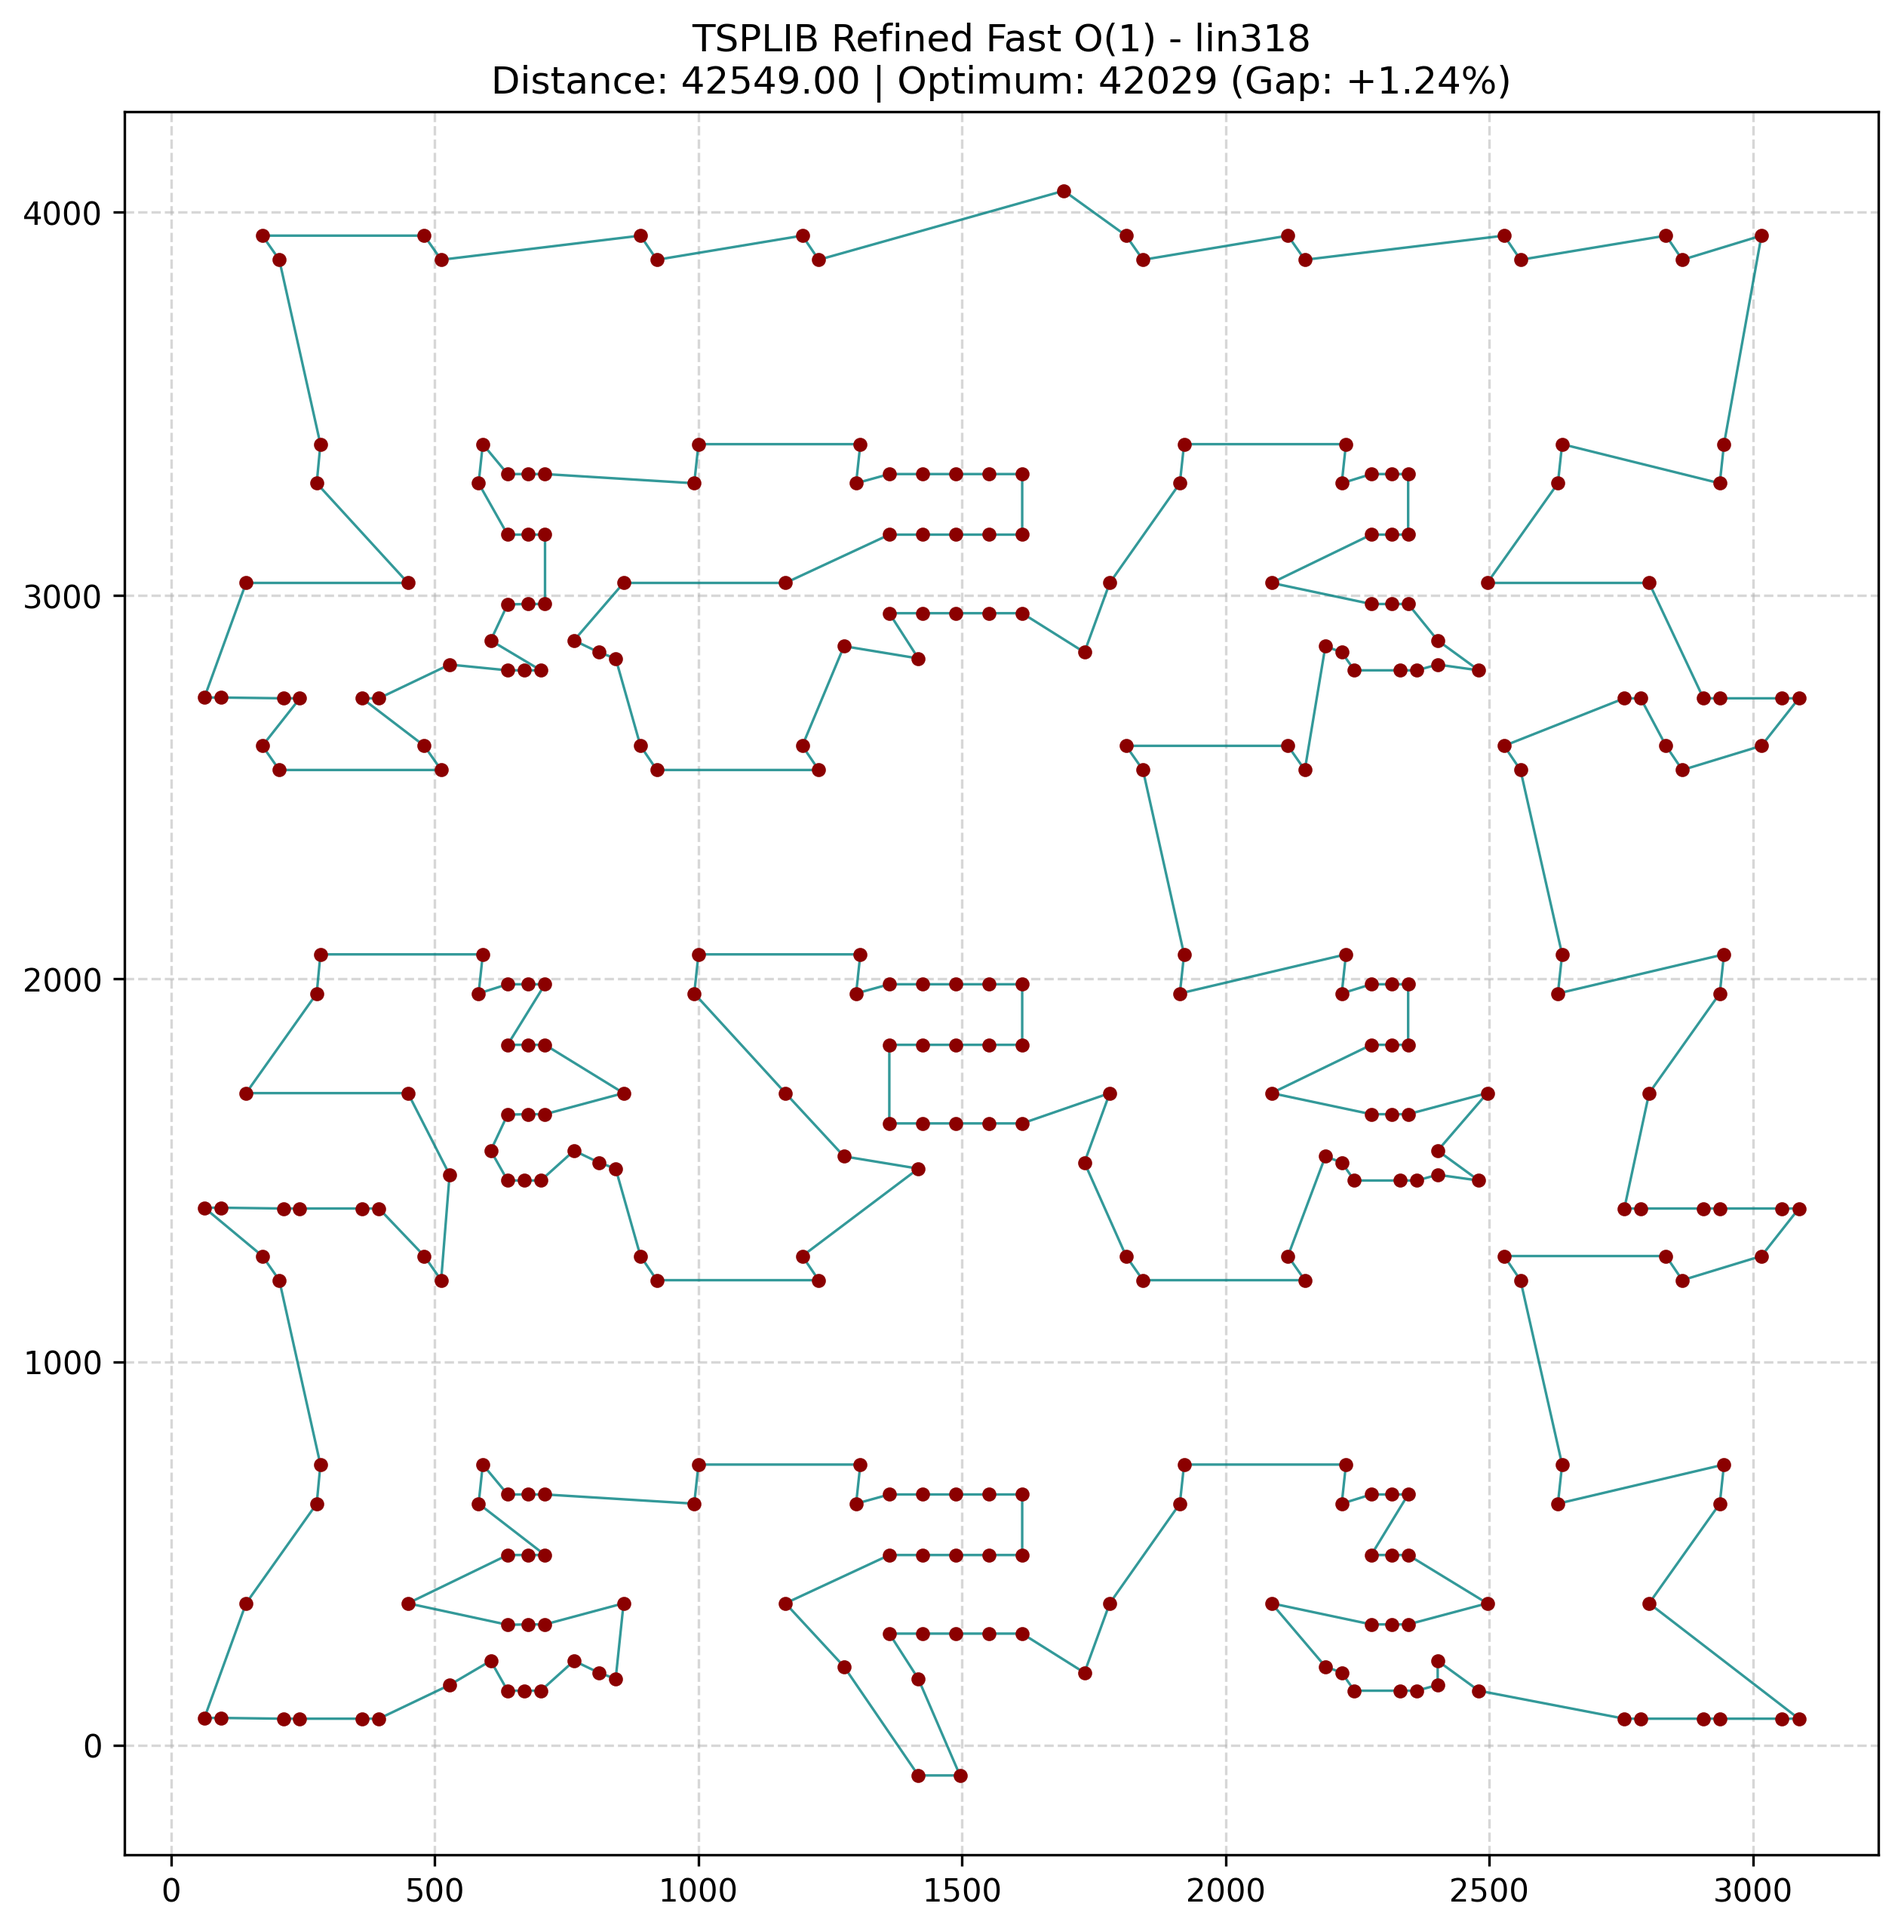
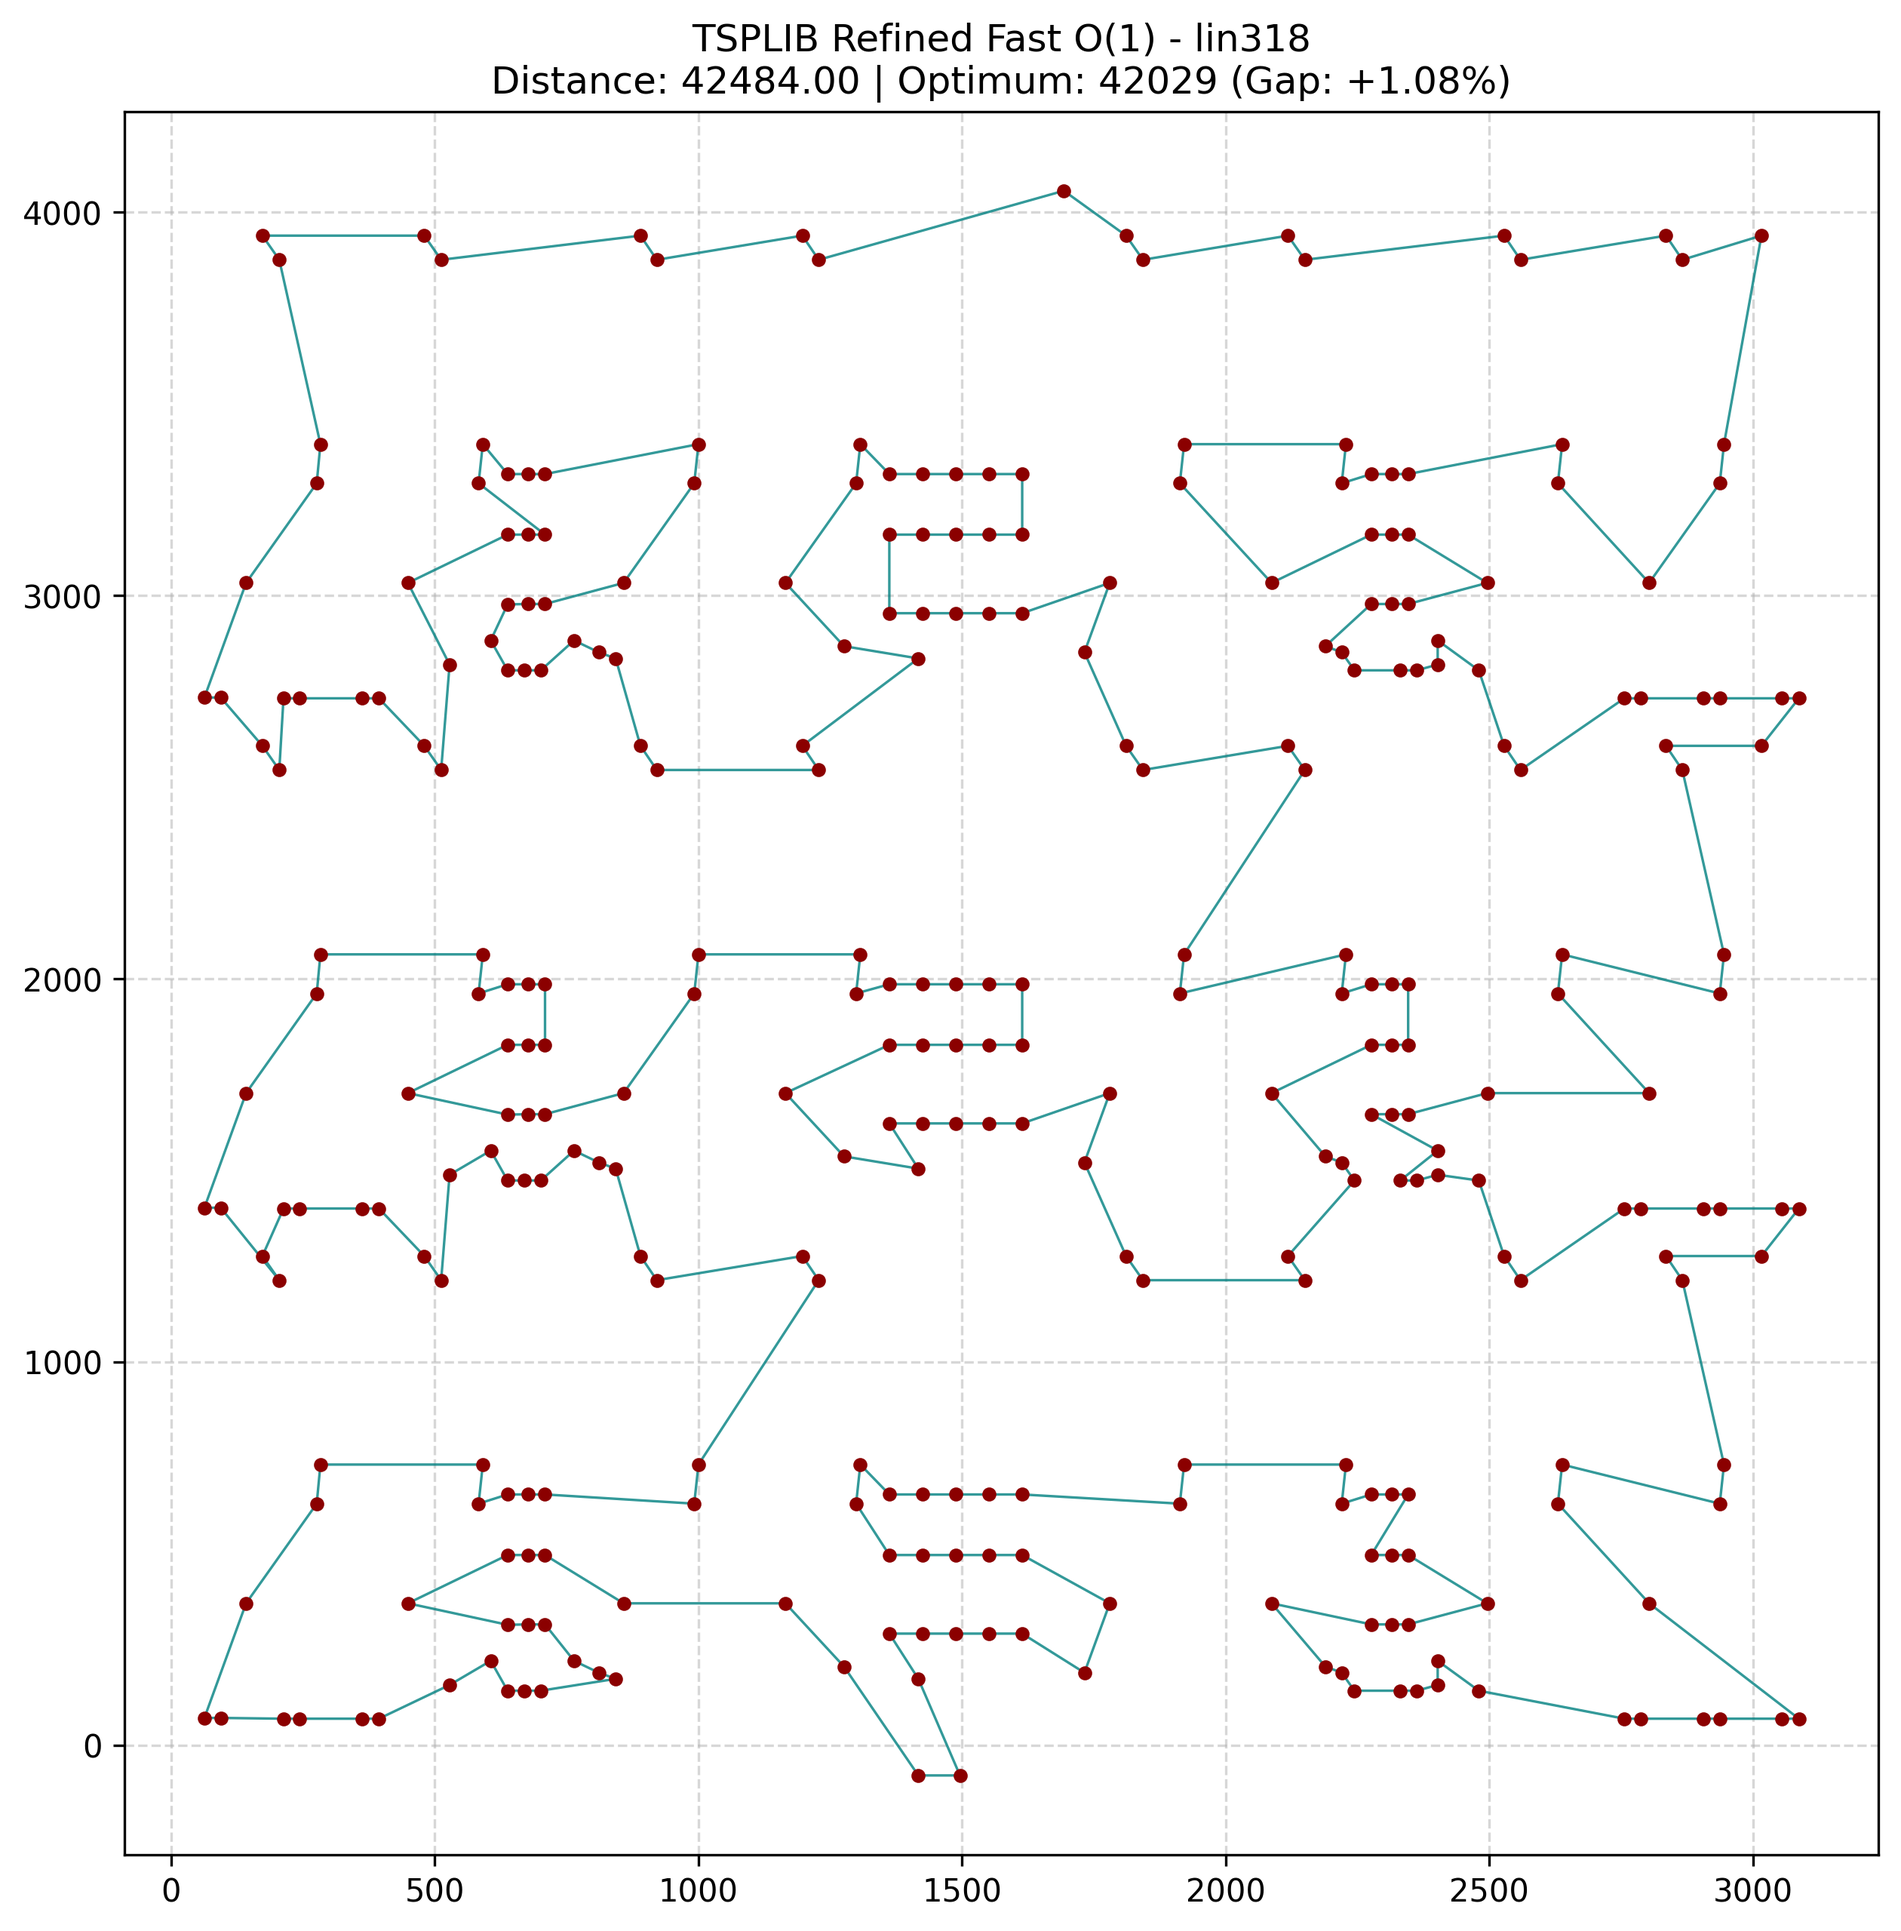
1.08%

diff --git a/grm_path_solver.py b/grm_path_solver.py
@@ -319,5 +319,5 @@ def plot_solution(coordinates, route, instance_name, distance, optimum, gap):
 
 if __name__ == "__main__":
     grm_delta_solver(
-        "lin318", num_iterations=3000000, initial_alpha=0.01, k_neighbors=45, seed=42
+        "lin318", num_iterations=3000000, initial_alpha=0.05, k_neighbors=45, seed=123
     )

diff --git a/README.md b/README.md
@@ -249,9 +249,9 @@ The current high-performance pipeline features:
 | Evaluation Complexity                     |             $O(1)$ Delta |
 | Initial Temperature                       |                    400.0 |
 | Cooling Rate                              |                 0.999997 |
-| Initial Structural Coefficient ($\alpha$) |                     0.01 |
+| Initial Structural Coefficient ($\alpha$) |                     0.05 |
 | Perturbation Strategy                     | 4-opt Double-Bridge Kick |
-| Random Seed                               |                       42 |
+| Random Seed                               |                      123 |
 
 ---
 
@@ -259,7 +259,7 @@ The current high-performance pipeline features:
 
 | Solver / Configuration                          | Route Distance | Gap from Optimum |    Runtime |
 | :---------------------------------------------- | -------------: | ---------------: | ---------: |
-| **Pure Python GRM Solver ($O(1)$ Delta + ILS)** |  **42,549.00** |       **+1.24%** | **5.88 s** |
+| **Pure Python GRM Solver ($O(1)$ Delta + ILS)** |  **42,484.00** |       **+1.08%** | **5.94 s** |
 | LK2 Heuristic                                   |      48,017.18 |          +14.25% |     0.71 s |
 | **TSPLIB Reference Optimum**                    |  **42,029.00** |        **0.00%** |      **—** |
 
@@ -269,8 +269,8 @@ The current high-performance pipeline features:
 
 ### Key Takeaways
 
-- **Performance Gain:** Transitioning to pure native Python with $O(1)$ incremental delta evaluation reduced total execution time for 3,000,000 iterations down to **5.88 seconds**.
-- **Accuracy Improvement:** Combining candidate-list guided search, $\alpha$-decay, and 4-opt Double-Bridge perturbations brought the solution within **+1.24%** of the world optimum (42,549 vs. 42,029).
+- **Performance Gain:** Transitioning to pure native Python with $O(1)$ incremental delta evaluation reduced total execution time for 3,000,000 iterations down to **5.94 seconds**.
+- **Accuracy Improvement:** Combining candidate-list guided search, $\alpha$-decay, and 4-opt Double-Bridge perturbations brought the solution within **+1.08%** of the world optimum (42,549 vs. 42,029).
 
 ---
 
@@ -280,7 +280,7 @@ The current high-performance pipeline features:
 
 ![GRM solution for lin318](tsplib_lin318_grm_candidate.png)
 
-*Calculated Distance: 42,549.00 — Gap to optimum: +1.24% — Execution time: 5.88 s.*
+*Calculated Distance: 42,484.00 — Gap to optimum: +1.08% — Execution time: 5.94 s.*
 
 ---   
 
